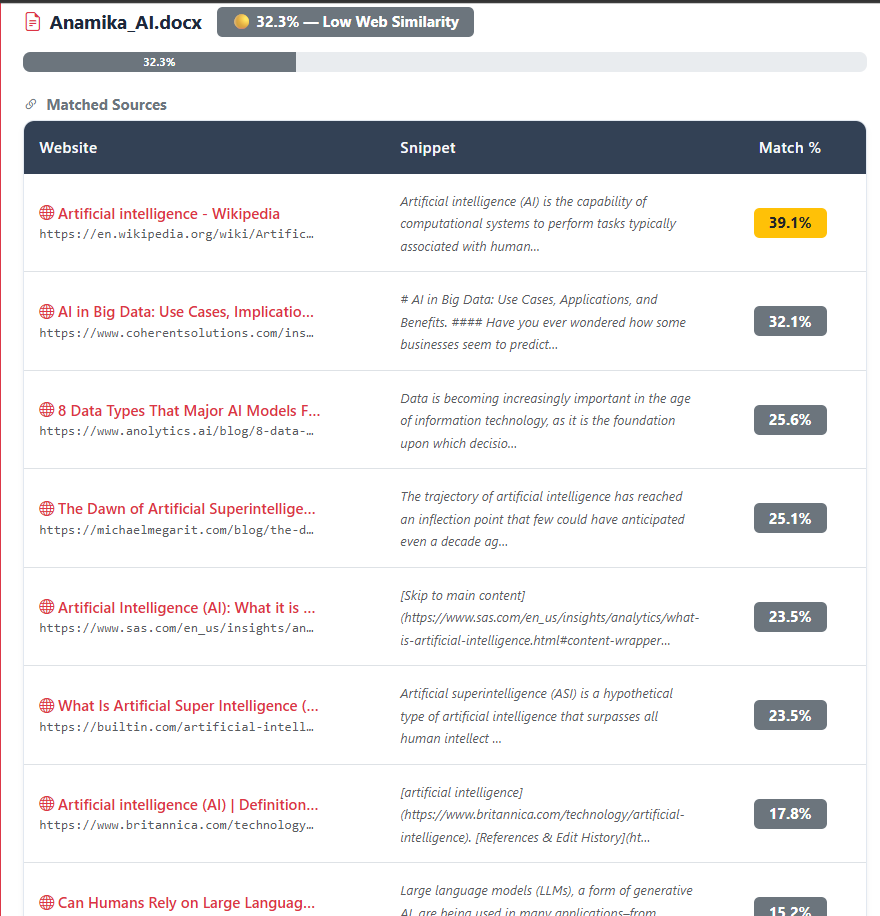
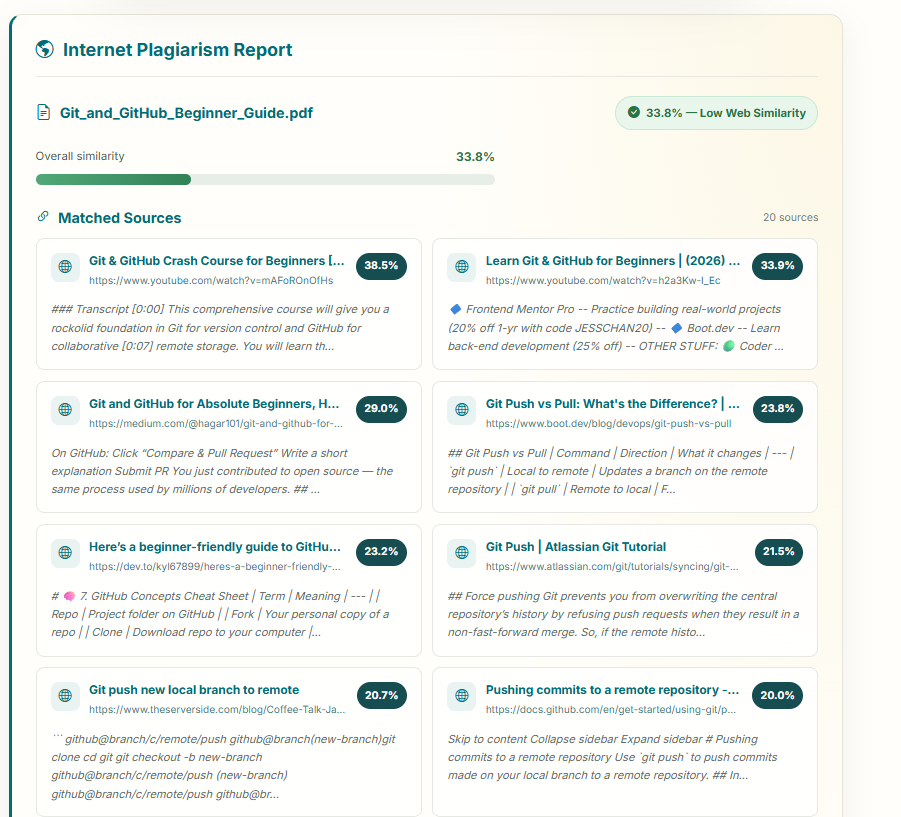
updates readme

Changed region(s): [[0.0, 0.0, 1.0, 1.0], [0.8284, 0.9792, 0.9511, 1.0]]

diff --git a/README.md b/README.md
@@ -31,13 +31,13 @@ Built with Python, Flask, SQLite and NLP.
 
 ## Screenshots
 
-| Home | Teacher dashboard | Student dashboard |
+| Landing page | Internet plagiarism report | Multi-document comparison |
 |---|---|---|
-| ![Home](docs/screenshots/homepage.png) | ![Teacher](docs/screenshots/teacher-dashboard.png) | ![Student](docs/screenshots/student-dashboard.png) |
+| ![PlagiarismGuard landing page](docs/screenshots/Home%20page.png) | ![Internet plagiarism report](docs/screenshots/internet.png) | ![Multi-document analysis and side-by-side comparison](docs/screenshots/multiple%20documents.png) |
 
-| Side-by-side comparison | Global scan | Internet scan |
-|---|---|---|
-| ![Side by side](docs/screenshots/side-by-side.png) | ![Global scan](docs/screenshots/global_scan.png) | ![Internet](docs/screenshots/internet.png) |
+| Student dashboard | Teacher dashboard |
+|---|---|
+| ![Student dashboard](docs/screenshots/student-dashboard.png) | ![Teacher dashboard](docs/screenshots/teacher-dashboard.png) |
 
 Algorithm benchmarks are in [`docs/benchmarks/`](docs/benchmarks).
 
